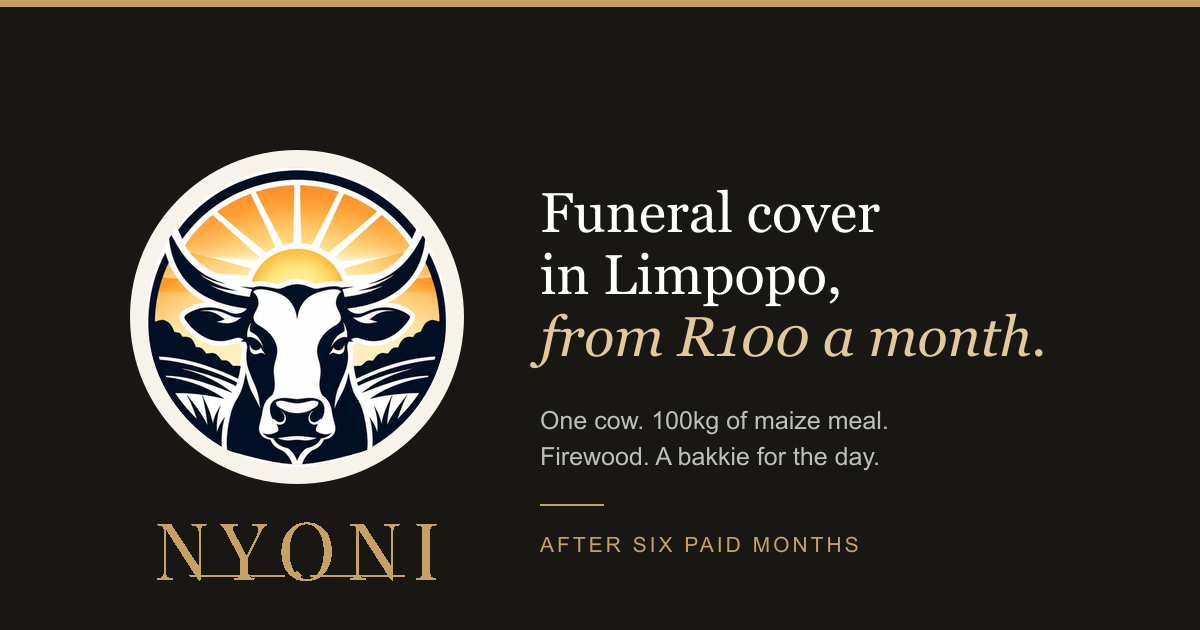
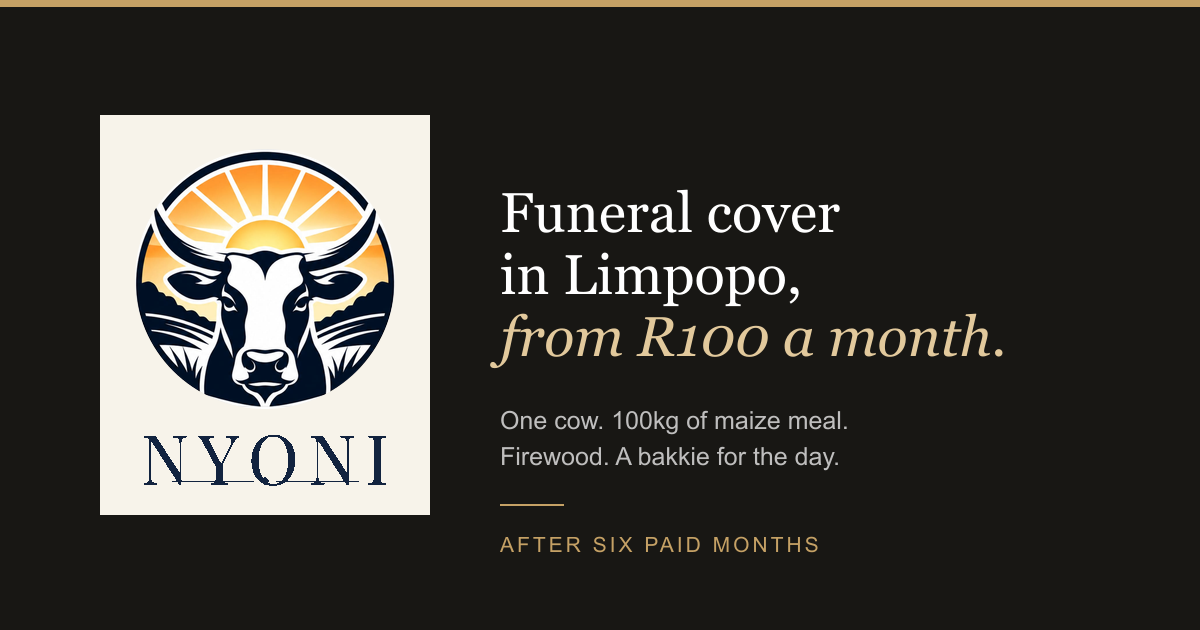
Show what actually arrives, and fix the section rhythm
The benefits section described a cow, four bags and a bakkie in words and
showed nothing. The product images now carry it.

Images are extracted from Austin's own poster by
scripts/extract-poster-benefits.mjs, so there is no licensing question.
They replace the downloaded stock photos and branded MADODA/GOLDI pack
shots that were proposed. They are AI renders topping out at 344px, so
the layout uses them at native size and never upscales, and the alt text
describes the item without claiming to be a photograph. Austin's real
delivery photographs replace them.

Layout follows DESIGN.md rather than the obvious route: four unequal
tiles, two wide and two narrow, because an equal four-up grid is the
banned identical-card-grid.

Rhythm, verified from the rendered DOM on all five pages rather than by
eye. The homepage tail ran Conditions, the form, the FAQ and Contact all
on cream, four consecutive light sections against a rule that forbids
three. Benefits and the FAQ are now dark, and /contact gains the trust
strip. The homepage went from LLLL to no run longer than two.

Also fixes a BRAND.md violation introduced earlier: the share card
repainted the NYONI wordmark in gold, against the rule that the logo is
never recoloured. It now sits as the real lockup on a cream panel.

Changed region(s): [[0.0617, 0.181, 0.8633, 0.9349], [0.4008, 0.6333, 0.74, 0.754], [0.4008, 0.8444, 0.7092, 0.8746]]

diff --git a/src/components/benefits.tsx b/src/components/benefits.tsx
@@ -1,49 +1,137 @@
-import { ArrowRight, Check } from "lucide-react";
-import { benefits } from "@/lib/site-data";
+import Image from "next/image";
+import { Check } from "lucide-react";
+import { addOns, benefits } from "@/lib/site-data";
 import { Reveal } from "./reveal";
+
+/*
+  The manifest.
+
+  This section answers the only question that matters on this site: what
+  actually arrives. Until now it answered it in words alone, which for a
+  product that is literally a cow, four bags and a bakkie was the weakest
+  possible way to say it.
+
+  Three constraints from DESIGN.md shaped the layout:
+
+  1. "Never let three light sections run consecutively." This section is now
+     dark, which fixes the run on /funeral-cover-limpopo as a side effect.
+  2. "Three identical feature cards" is banned, and so is an identical card
+     grid. The four tiles are deliberately unequal — two wide, two narrow,
+     alternating — which also suits the images, all of which are landscape.
+  3. Gold stays under ~10%. It appears on the eyebrow, one serif phrase in the
+     heading, and the add-on prices. Nowhere else.
+
+  The tiles are cream on the dark ground because the product images already sit
+  on cream, and because the logo rule in BRAND.md — never place the mark on a
+  photograph — sets the same instinct for the goods.
+*/
+
+const TILE = "group relative overflow-hidden rounded-xl bg-soft-cream";
+const TILE_IMAGE = "flex items-center justify-center px-6 pt-7 pb-3";
+const TILE_FOOT = "flex items-baseline justify-between gap-3 border-t border-charcoal/12 px-6 py-4";
+
+/** Wide tiles take the landscape images; narrow ones take the squarer pair. */
+const SPAN = ["sm:col-span-3", "sm:col-span-2", "sm:col-span-2", "sm:col-span-3"];
 
 export function Benefits() {
   return (
-    <section id="benefits" className="paper-grain bg-cream pb-20 sm:pb-28">
+    <section id="benefits" className="section-pad bg-deep-black text-cream">
       <div className="container-shell">
-        <div className="relative overflow-hidden rounded-xl bg-deep-black shadow-[0_30px_80px_-55px_rgba(41,40,37,.65)]">
-          <div className="absolute inset-0 bg-[radial-gradient(ellipse_at_85%_20%,rgba(197,161,101,.18),transparent_55%),radial-gradient(ellipse_at_5%_100%,rgba(137,102,47,.14),transparent_50%)]" aria-hidden="true" />
-          <span className="serif-accent absolute -right-6 bottom-[-3rem] hidden select-none text-[16rem] leading-none text-light-gold/8 sm:block" aria-hidden="true">04</span>
-          <Reveal className="relative z-10 max-w-2xl p-7 text-cream sm:p-12 lg:p-16">
-            <p className="eyebrow text-light-gold">Basic benefits</p>
-            <h2 className="display-title mt-4 text-5xl sm:text-7xl">Practical help, <span className="serif-accent text-[#e2c99c]">clearly defined.</span></h2>
-            <p className="mt-5 max-w-md leading-7 text-cream/80">Qualifying members receive the following support after verification.</p>
-          </Reveal>
-        </div>
-        {/* Ledger rows, not a 4-up card grid: equal feature columns are the AI tell. */}
-        <ol className="border-b border-charcoal/15">
+        <Reveal className="max-w-3xl">
+          <p className="eyebrow text-light-gold">Basic benefits</p>
+          <h2 className="display-title mt-4 text-5xl sm:text-7xl">
+            Not a promise. <span className="serif-accent text-[#e2c99c]">A delivery.</span>
+          </h2>
+          <p className="mt-5 max-w-xl leading-7 text-cream/75">
+            Every membership option includes the same four things. This is the whole list —
+            there is no tier that gets more, and nothing here is decided later.
+          </p>
+        </Reveal>
+
+        <ol className="mt-12 grid gap-4 sm:grid-cols-5">
           {benefits.map((benefit, index) => (
-            <Reveal key={benefit.title} delay={index * .05}>
-              <li className="group grid items-baseline gap-x-6 gap-y-1 border-t border-charcoal/15 py-7 transition-colors hover:bg-gold/5 sm:grid-cols-[4rem_1fr_auto] sm:py-8">
-                <span className="font-display text-3xl text-gold/60 transition-colors group-hover:text-gold sm:text-4xl">0{index + 1}</span>
-                <div>
-                  <h3 className="font-display text-3xl uppercase leading-none sm:text-4xl">{benefit.title}</h3>
-                  {benefit.note && <p className="mt-2 text-xs font-semibold uppercase tracking-wider text-gold">{benefit.note}</p>}
-                </div>
-                <p className="text-sm text-muted sm:text-right sm:text-base">{benefit.detail}</p>
-              </li>
-            </Reveal>
+            <li key={benefit.title} className={SPAN[index]}>
+              <Reveal delay={index * 0.05}>
+                <article className={TILE}>
+                  <div className={TILE_IMAGE}>
+                    <Image
+                      src={benefit.image}
+                      alt={benefit.alt}
+                      width={benefit.width}
+                      height={benefit.height}
+                      sizes="(min-width: 640px) 22rem, 90vw"
+                      className="h-32 w-auto object-contain sm:h-36"
+                    />
+                  </div>
+                  <div className={TILE_FOOT}>
+                    <div>
+                      <h3 className="font-display text-2xl uppercase leading-none text-charcoal sm:text-3xl">
+                        {benefit.title}
+                      </h3>
+                      {benefit.note && (
+                        <p className="mt-1.5 text-[.68rem] font-semibold uppercase tracking-wider text-gold">
+                          {benefit.note}
+                        </p>
+                      )}
+                    </div>
+                    <p className="shrink-0 text-sm text-muted">{benefit.detail}</p>
+                  </div>
+                  <span
+                    aria-hidden="true"
+                    className="absolute right-4 top-3 font-display text-sm text-charcoal/25"
+                  >
+                    {String(index + 1).padStart(2, "0")}
+                  </span>
+                </article>
+              </Reveal>
+            </li>
           ))}
         </ol>
-        <div className="mt-16 grid gap-8 border-y border-charcoal/15 py-10 lg:grid-cols-[.65fr_1.35fr]">
-          <div><p className="eyebrow">Optional add-ons</p><h2 className="display-title mt-4 text-4xl sm:text-5xl">Add more practical help.</h2><p className="mt-4 text-sm leading-6 text-muted">These are separate add-ons. They are not included in the basic monthly price.</p></div>
-          {/* Deliberately asymmetric: matched twin cards read as a template. */}
-          <div className="grid gap-x-10 gap-y-8 sm:grid-cols-[.85fr_1.15fr]">
-            <Reveal className="border-t border-charcoal/20 pt-6">
-              <div className="flex items-baseline justify-between gap-4"><h3 className="font-display text-3xl uppercase">On the Go</h3><p className="font-display text-3xl text-gold">R70<span className="font-sans text-xs text-muted"> pm</span></p></div>
-              <p className="mt-5 flex gap-2 text-sm text-muted"><Check size={17} className="shrink-0 text-gold" />20 loaves of bread per day</p>
-              <a href="#join" className="focus-ring mt-7 inline-flex items-center gap-2 text-xs font-bold uppercase tracking-widest text-gold hover:underline hover:underline-offset-4">Add to application <ArrowRight size={15} /></a>
-            </Reveal>
-            <Reveal className="border-t-2 border-charcoal pt-6">
-              <div className="flex items-baseline justify-between gap-4"><h3 className="font-display text-3xl uppercase sm:text-4xl">Food Support</h3><p className="font-display text-3xl text-gold sm:text-4xl">R70<span className="font-sans text-xs text-muted"> pm</span></p></div>
-              <ul className="mt-5 grid gap-2 text-sm text-muted sm:grid-cols-2"><li className="flex gap-2"><Check size={17} className="shrink-0 text-gold" />6 × 5kg mixed-portion chicken</li><li className="flex gap-2"><Check size={17} className="shrink-0 text-gold" />20 cabbages</li><li className="flex gap-2"><Check size={17} className="shrink-0 text-gold" />5 × 10kg bags of potatoes</li></ul>
-              <a href="#join" className="focus-ring mt-7 inline-flex items-center gap-2 text-xs font-bold uppercase tracking-widest text-gold hover:underline hover:underline-offset-4">Add to application <ArrowRight size={15} /></a>
-            </Reveal>
+
+        {/* Add-ons sit quieter than the manifest on purpose: they are optional,
+            they cost extra, and the claim register requires that never read as
+            part of the basic price. */}
+        <div className="mt-16 grid gap-10 border-t border-white/12 pt-12 lg:grid-cols-[.6fr_1.4fr]">
+          <Reveal>
+            <p className="eyebrow text-light-gold">Optional add-ons</p>
+            <h3 className="display-title mt-4 text-4xl sm:text-5xl">Add more practical help.</h3>
+            <p className="mt-4 max-w-sm text-sm leading-6 text-cream/70">
+              Separate from the basic price, and separate from each other. R70 a month each.
+            </p>
+          </Reveal>
+
+          <div className="grid gap-8 sm:grid-cols-2">
+            {addOns.map((addOn, index) => (
+              <Reveal key={addOn.name} delay={index * 0.05} className="border-t border-white/12 pt-6">
+                <div className="flex items-baseline justify-between gap-4">
+                  <h4 className="font-display text-3xl uppercase">{addOn.name}</h4>
+                  <p className="font-display text-3xl text-light-gold">
+                    R{addOn.price}
+                    <span className="ml-1 font-sans text-xs text-cream/60">pm</span>
+                  </p>
+                </div>
+                <ul className="mt-5 grid gap-3">
+                  {addOn.items.map((item) => (
+                    <li key={item.label} className="flex items-center gap-3">
+                      <span className="grid size-14 shrink-0 place-items-center overflow-hidden rounded-lg bg-soft-cream">
+                        <Image
+                          src={item.image}
+                          alt={item.alt}
+                          width={item.width}
+                          height={item.height}
+                          sizes="56px"
+                          className="h-10 w-auto object-contain"
+                        />
+                      </span>
+                      <span className="flex items-center gap-2 text-sm text-cream/80">
+                        <Check size={15} className="shrink-0 text-light-gold" aria-hidden="true" />
+                        {item.label}
+                      </span>
+                    </li>
+                  ))}
+                </ul>
+              </Reveal>
+            ))}
           </div>
         </div>
       </div>

diff --git a/src/lib/site-data.ts b/src/lib/site-data.ts
@@ -33,7 +33,24 @@ interface Benefit {
   detail: string;
   image: string;
   alt: string;
+  /** Native pixel size. These are never upscaled — see the note below. */
+  width: number;
+  height: number;
   note?: string;
+}
+
+interface AddOnItem {
+  label: string;
+  image: string;
+  alt: string;
+  width: number;
+  height: number;
+}
+
+interface AddOn {
+  name: string;
+  price: number;
+  items: readonly AddOnItem[];
 }
 
 export const packages: readonly MembershipPackage[] = [
@@ -44,11 +61,48 @@ export const packages: readonly MembershipPackage[] = [
   { members: 8, price: 300 },
 ] as const;
 
+/*
+  The images are extracted from Austin's own poster by
+  scripts/extract-poster-benefits.mjs. They are AI-rendered composites, not
+  photographs of Nyoni's goods, and they top out at 344px wide.
+
+  Two consequences, both deliberate:
+    - the layout uses them at or below native size, never upscaled
+    - the alt text describes the item, and never claims to be a photograph
+
+  They are placeholders until Austin's own delivery photographs arrive. When
+  they do, caption them the way who-we-are.tsx captions the cattle photo:
+  as what they are, on a stated date.
+*/
 export const benefits: readonly Benefit[] = [
-  { title: "One cow", detail: "1 × cow", image: "/images/benefits/cow.svg", alt: "A cow representing Nyoni's basic support benefit" },
-  { title: "Maize meal", detail: "2 × 50kg maize meal", image: "/images/benefits/maize-meal.svg", alt: "Two bags of maize meal for practical family support" },
-  { title: "Firewood", detail: "1 × full load of wood", image: "/images/benefits/firewood.svg", alt: "A full load of neatly stacked firewood" },
-  { title: "Bakkie service", detail: "1-day bakkie service", note: "You choose the day", image: "/images/benefits/bakkie.svg", alt: "A white bakkie providing community transport support" },
+  { title: "One cow", detail: "1 × cow", image: "/images/benefits/cow.webp", width: 188, height: 154, alt: "One cow, the largest single item in the basic benefits" },
+  { title: "Maize meal", detail: "2 × 50kg maize meal", image: "/images/benefits/maize-meal.webp", width: 156, height: 154, alt: "Two 50kg bags of maize meal" },
+  { title: "Firewood", detail: "1 × full load of wood", image: "/images/benefits/firewood.webp", width: 217, height: 154, alt: "A full load of firewood" },
+  { title: "Bakkie service", detail: "1-day bakkie service", note: "You choose the day", image: "/images/benefits/bakkie.webp", width: 236, height: 154, alt: "The bakkie provided for one day" },
+] as const;
+
+/**
+ * The two optional add-ons. R70 each per month, and NOT included in the basic
+ * price — that distinction is a claim-register rule, not a layout preference,
+ * so it must stay visible wherever these appear.
+ */
+export const addOns: readonly AddOn[] = [
+  {
+    name: "On the Go",
+    price: 70,
+    items: [
+      { label: "20 loaves of bread per day", image: "/images/benefits/bread.webp", width: 344, height: 116, alt: "Twenty loaves of bread" },
+    ],
+  },
+  {
+    name: "Food Support",
+    price: 70,
+    items: [
+      { label: "6 × 5kg mixed-portion chicken", image: "/images/benefits/chicken.webp", width: 174, height: 116, alt: "Six 5kg packs of mixed-portion chicken" },
+      { label: "20 cabbages", image: "/images/benefits/cabbage.webp", width: 157, height: 116, alt: "Twenty cabbages" },
+      { label: "5 × 10kg bags of potatoes", image: "/images/benefits/potatoes.webp", width: 179, height: 116, alt: "Five 10kg bags of potatoes" },
+    ],
+  },
 ] as const;
 
 // Wording here is bound to the claim register (nyoni marketing tean/CLAIMS.md)

diff --git a/src/components/faq.tsx b/src/components/faq.tsx
@@ -15,13 +15,19 @@ export const faqs = [
   ["How can I contact Nyoni?", `Call or WhatsApp Nyoni on ${PHONE_DISPLAY}.`],
 ] as const;
 
+/*
+  Dark on purpose. DESIGN.md forbids three consecutive light sections, and the
+  homepage tail ran Conditions, the application form, the FAQ and Contact all
+  on cream — four in a row. Flipping the FAQ breaks the run without touching
+  the application form, which is the one component worth leaving alone.
+*/
 export function Faq() {
   return (
-    <section id="faq" className="paper-grain bg-cream pb-20 sm:pb-28">
+    <section id="faq" className="section-pad bg-deep-black text-cream">
       <div className="container-shell grid gap-10 lg:grid-cols-[.55fr_1.45fr]">
-        <div><h2 className="display-title text-5xl sm:text-6xl">Straight answers.</h2><a href={whatsappUrl("Hello Nyoni, I have a question about membership.")} target="_blank" rel="noreferrer" className="mt-7 inline-flex items-center gap-2 bg-charcoal px-5 py-3 text-xs font-bold uppercase tracking-widest text-cream hover:bg-gold"><MessageCircle size={16} />Ask Nyoni</a></div>
+        <div><h2 className="display-title text-5xl sm:text-6xl">Straight <span className="serif-accent text-[#e2c99c]">answers.</span></h2><a href={whatsappUrl("Hello Nyoni, I have a question about membership.")} target="_blank" rel="noreferrer" className="focus-ring mt-7 inline-flex items-center gap-2 bg-light-gold px-5 py-3 text-xs font-bold uppercase tracking-widest text-charcoal hover:bg-cream"><MessageCircle size={16} />Ask Nyoni</a></div>
         <div className="grid gap-x-10 md:grid-cols-2">
-          {faqs.map(([question, answer]) => <details key={question} className="group border-t border-charcoal/20 py-5"><summary className="flex cursor-pointer list-none items-start justify-between gap-4 font-semibold leading-6 transition-colors hover:text-gold"><span>{question}</span><span className="text-xl text-gold transition-transform duration-200 group-open:rotate-45" aria-hidden="true">+</span></summary><p className="max-w-prose pt-4 text-sm leading-6 text-muted">{answer}</p></details>)}
+          {faqs.map(([question, answer]) => <details key={question} className="group border-t border-white/12 py-5"><summary className="flex cursor-pointer list-none items-start justify-between gap-4 font-semibold leading-6 transition-colors hover:text-light-gold"><span>{question}</span><span className="text-xl text-light-gold transition-transform duration-200 group-open:rotate-45" aria-hidden="true">+</span></summary><p className="max-w-prose pt-4 text-sm leading-6 text-cream/70">{answer}</p></details>)}
         </div>
       </div>
     </section>

diff --git a/src/app/contact/page.tsx b/src/app/contact/page.tsx
@@ -4,6 +4,7 @@ import { Footer } from "@/components/footer";
 import { JsonLd } from "@/components/json-ld";
 import { Navigation } from "@/components/navigation";
 import { PageHeader } from "@/components/page-header";
+import { TrustStrip } from "@/components/trust-strip";
 import { WhatsAppFloat } from "@/components/whatsapp-float";
 import { WhoWeAre } from "@/components/who-we-are";
 import { organizationSchema } from "@/lib/schema";
@@ -56,6 +57,10 @@ export default function ContactPage() {
           }
         />
         <Contact />
+        {/* Breaks a run of three light sections, which DESIGN.md forbids, and
+            earns its place here: someone on the contact page is deciding
+            whether to call, and these are the terms they are deciding on. */}
+        <TrustStrip />
         <WhoWeAre />
       </main>
       <Footer />
